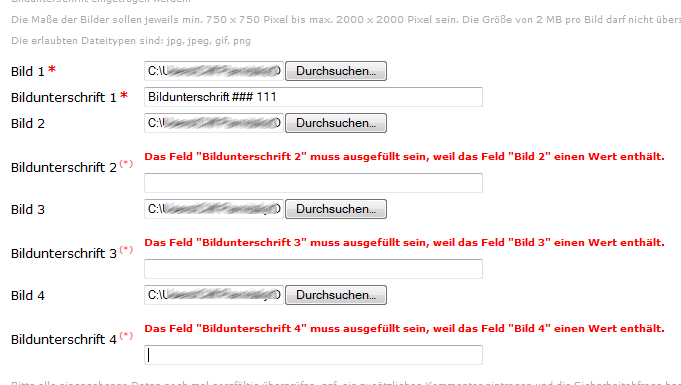
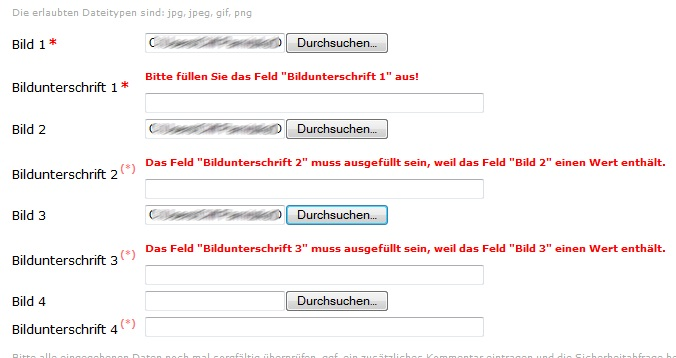
Improoved css example

diff --git a/README.md b/README.md
@@ -52,9 +52,9 @@ This is only an example:
 			content: '(';
 	}
 	.dependent span.mandatory {
-			font-size: 8px;
+			font-size: 9px;
 			vertical-align: super;
-			color: orange;
+			color: #FF7777;
 	}
 	
 With the css above, a form like the follwoing will be created:
